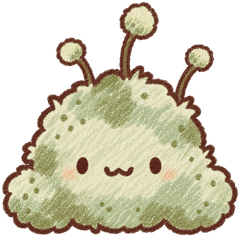
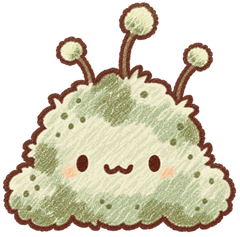
Install approved mold outline artwork with original HUD dimensions

Changed region(s): [[0.0, 0.0, 0.9917, 1.0]]

diff --git a/docs/changes.html b/docs/changes.html
@@ -2,6 +2,7 @@
 *{box-sizing:border-box}body{margin:0;background:#f2eadb;color:#49342e;font:16px/1.75 -apple-system,BlinkMacSystemFont,'Apple SD Gothic Neo',sans-serif}main{max-width:1000px;margin:auto;padding:40px 24px}h1{font-size:38px;line-height:1.25}h2{font-size:25px;margin:42px 0 16px}h3{font-size:18px}p{max-width:780px}.meta{font-size:13px;color:#79685c}table{border-collapse:collapse;width:100%;font-size:14px;background:#fffaf1}th,td{text-align:left;border-bottom:1px solid #d8cbbc;padding:14px;vertical-align:top}th{color:#53713b}code{background:#e7dfd1;border-radius:4px;padding:2px 4px;font-size:12px}pre{overflow:auto;background:#fffaf1;padding:18px;border-radius:12px;font-size:13px}.frames{display:flex;gap:20px;overflow:auto}.frames figure{margin:0;flex:0 0 220px}.frames img{width:220px;border-radius:12px}.frames figcaption{font-size:13px}a{color:#53713b}.box{padding:22px;background:#fffaf1;border-radius:16px;margin:22px 0}li{margin:8px 0}@media(max-width:600px){h1{font-size:29px}table{font-size:12px}th,td{padding:9px}.frames figure,.frames img{width:190px;flex-basis:190px}}
 </style><main><p class="meta">CUPCAKE ZOMBIE · 2026-10-20</p><h1>200 스테이지 확장과<br>플레이 감각 개선</h1><p>기존 60개에 140개를 더해 20개 장, 200 스테이지로 확장했어요. 새로운 두 맛의 그림·규칙·설명·정답을 함께 넣고, 포자 낙하와 모바일 화면, 효과음을 다듬었어요.</p><p><a href="stage-guide.html">스테이지 도감 열기 →</a></p>
 <h2>어디를 고쳤나요?</h2><table><thead><tr><th>부분</th><th>기존 상태</th><th>바뀐 동작</th></tr></thead><tbody>
+<tr><td>큰 곰팡이 그림</td><td>컵케이크에 비해 곰팡이의 갈색 윤곽선이 가늘었어요.</td><td>작가가 선택한 선 보강 수정본으로 교체했어요. 승인된 고해상도 원본은 assets_extended/mold-outline-v2에 보관하고, 게임용은 기존 240×237 투명 캔버스에 맞췄어요. 하단 표시 크기와 발사할 때의 반동은 그대로 유지해요.</td></tr>
 <tr><td>좀비 변신 뽀잉</td><td>포자를 맞은 반응이 대부분 끝난 뒤 좀비 그림으로 바뀌어, 변신 직후에는 거의 움직이지 않았어요.</td><td>좀비 그림이 나타나는 순간부터 380ms 동안 한 번 납작해졌다가 길어지고 제자리로 돌아와요. 발 기준점은 고정하고 대기 중에는 멈춰요. 실제 감염되는 모든 맛에 공통 적용하며, 버터 뚜껑 벗기기와 레몬의 차가워진 중간 상태에는 변신 반동을 넣지 않아요. 뒤늦은 추가 타격은 기존 타격 반응이 우선하고, 동작 줄이기 설정에서는 크기를 바꾸지 않아요. 반응실의 ‘변신 뽀잉’에서 느리게 비교할 수 있어요.</td></tr>
 <tr><td>포자 미리보기</td><td>작은 포자가 얼굴을 가리고 가는 점선과 섞여, 도착 대상이 잘 드러나지 않았어요.</td><td>미리보기의 포자 배지를 제거하고, 첫 전파가 영향을 주는 컵케이크에 크림색·올리브색 외곽선을 넣었어요. 점선은 그림 뒤에서 출발점 → 목적지로 흐르고, 옅은 받침 선으로 배경과 구분돼요. 선택한 컵케이크는 금색 받침으로 표시해요.</td></tr>
 <tr><td>미리보기 판정</td><td>그 컵케이크가 상했다고 가정한 경로를 표시했어요.</td><td>직접 포자를 맞았을 때 곧바로 나오는 첫 전파를 실제 규칙으로 계산해요. 버터 뚜껑·차가워지는 레몬은 첫 전파를 약속하지 않고, 강한 포자가 포장된 좀비에게 주는 영향은 표시해요. 턴 전체의 최종 연쇄를 보여주는 기능은 아니에요.</td></tr>
